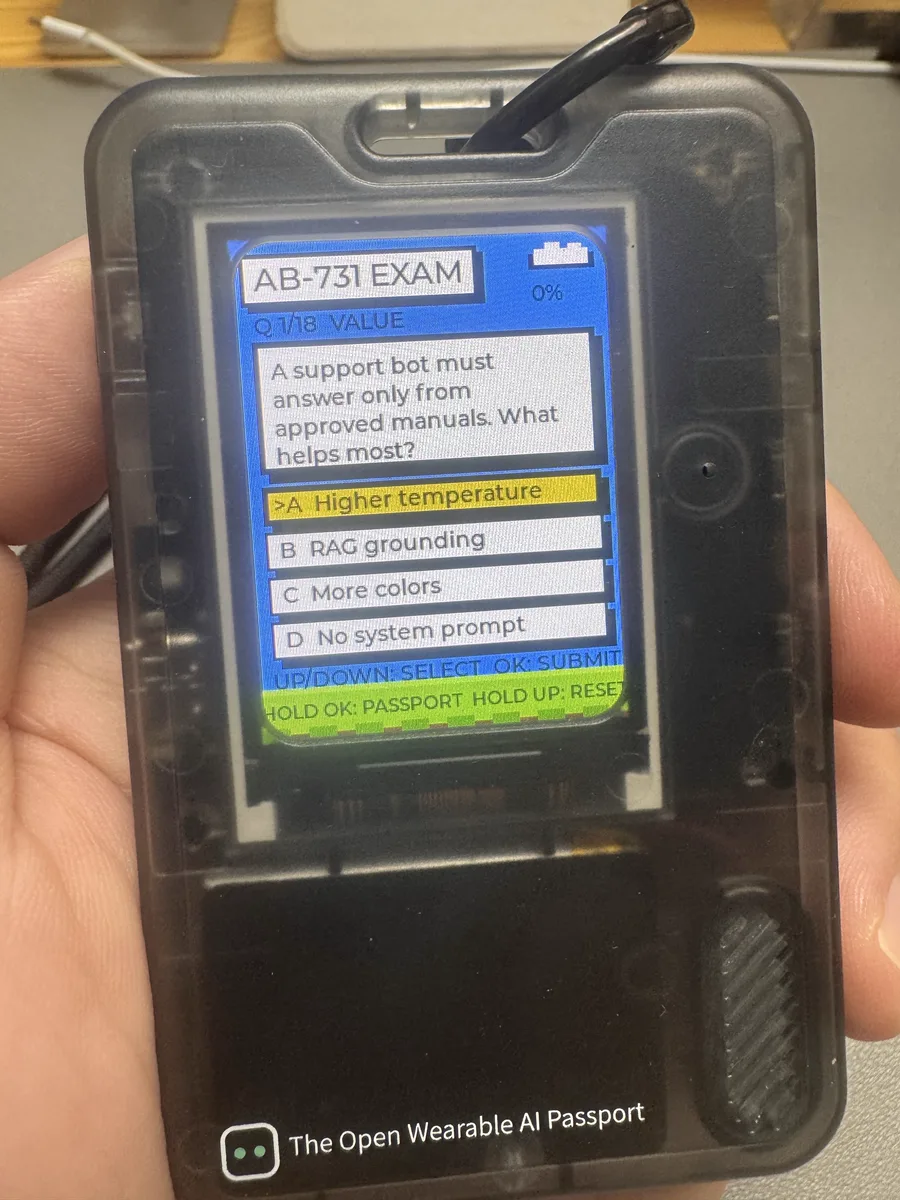
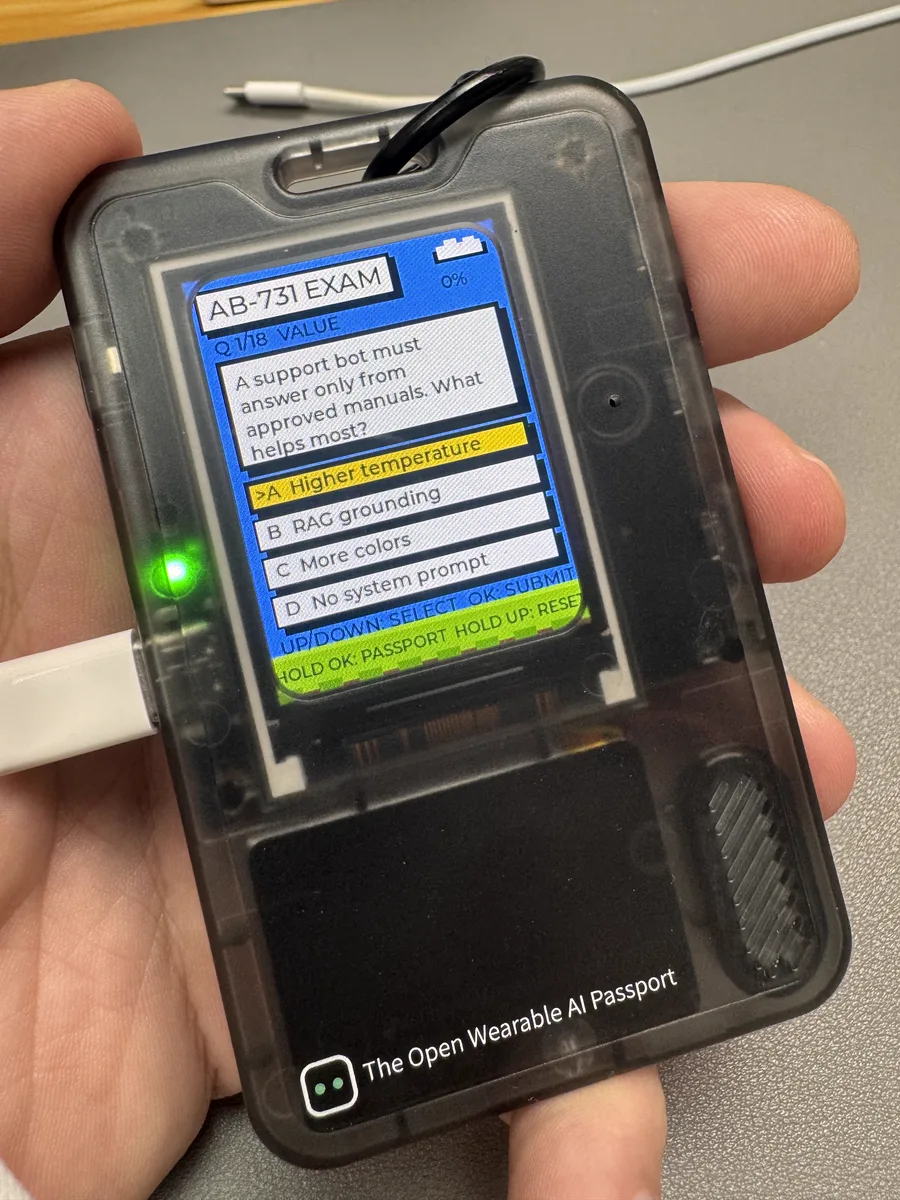
docs: use latest AI Passport field photos

diff --git a/README.md b/README.md
@@ -68,12 +68,12 @@ first featured project. The full particle experience lives at **`/particles`**.
 <table>
   <tr>
     <td width="50%" align="center">
-      <img src="public/ai-passport-2026.webp" alt="AI Passport 2026 最新充电实拍"><br>
-      <sub>个人身份首页与 AB-731 应用入口</sub>
+      <img src="public/ai-passport-2026.webp" alt="AI Passport 2026 最新手持实拍"><br>
+      <sub>最新手持实拍：个人身份首页与 AB-731 应用入口</sub>
     </td>
     <td width="50%" align="center">
-      <img src="public/ai-passport-2026-lanyard.webp" alt="AI Passport 2026 挂绳完整实拍"><br>
-      <sub>完整穿戴设备与挂绳</sub>
+      <img src="public/ai-passport-2026-lanyard.webp" alt="AI Passport 2026 充电状态完整机身实拍"><br>
+      <sub>最新斜俯拍：充电状态与完整机身</sub>
     </td>
   </tr>
   <tr>
@@ -84,6 +84,12 @@ first featured project. The full particle experience lives at **`/particles`**.
     <td width="50%" align="center">
       <img src="public/ai-passport-ab731-question-v18.webp" alt="AB-731 早期四选一答题界面"><br>
       <sub>早期答题界面，不作为当前 100 题版本的真机证明</sub>
+    </td>
+  </tr>
+  <tr>
+    <td colspan="2" align="center">
+      <img src="public/ai-passport-ab731-result-v18.webp" width="50%" alt="AB-731 早期版本答题解析界面"><br>
+      <sub>早期答题解析实拍：提交后立即显示正确答案和说明</sub>
     </td>
   </tr>
 </table>
